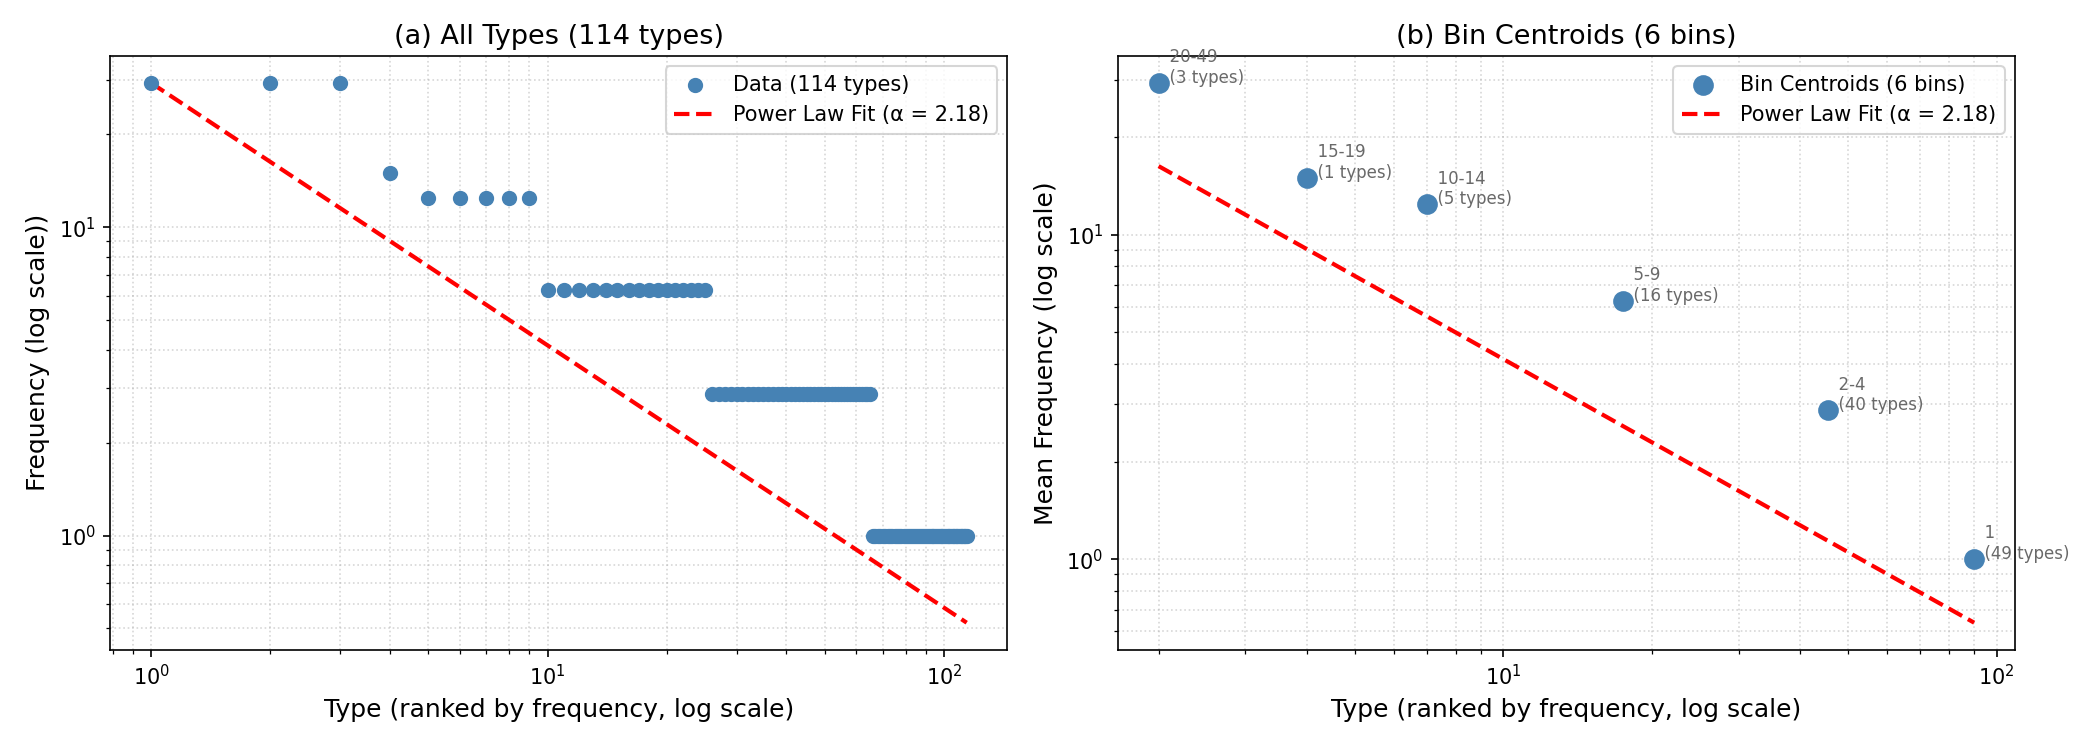
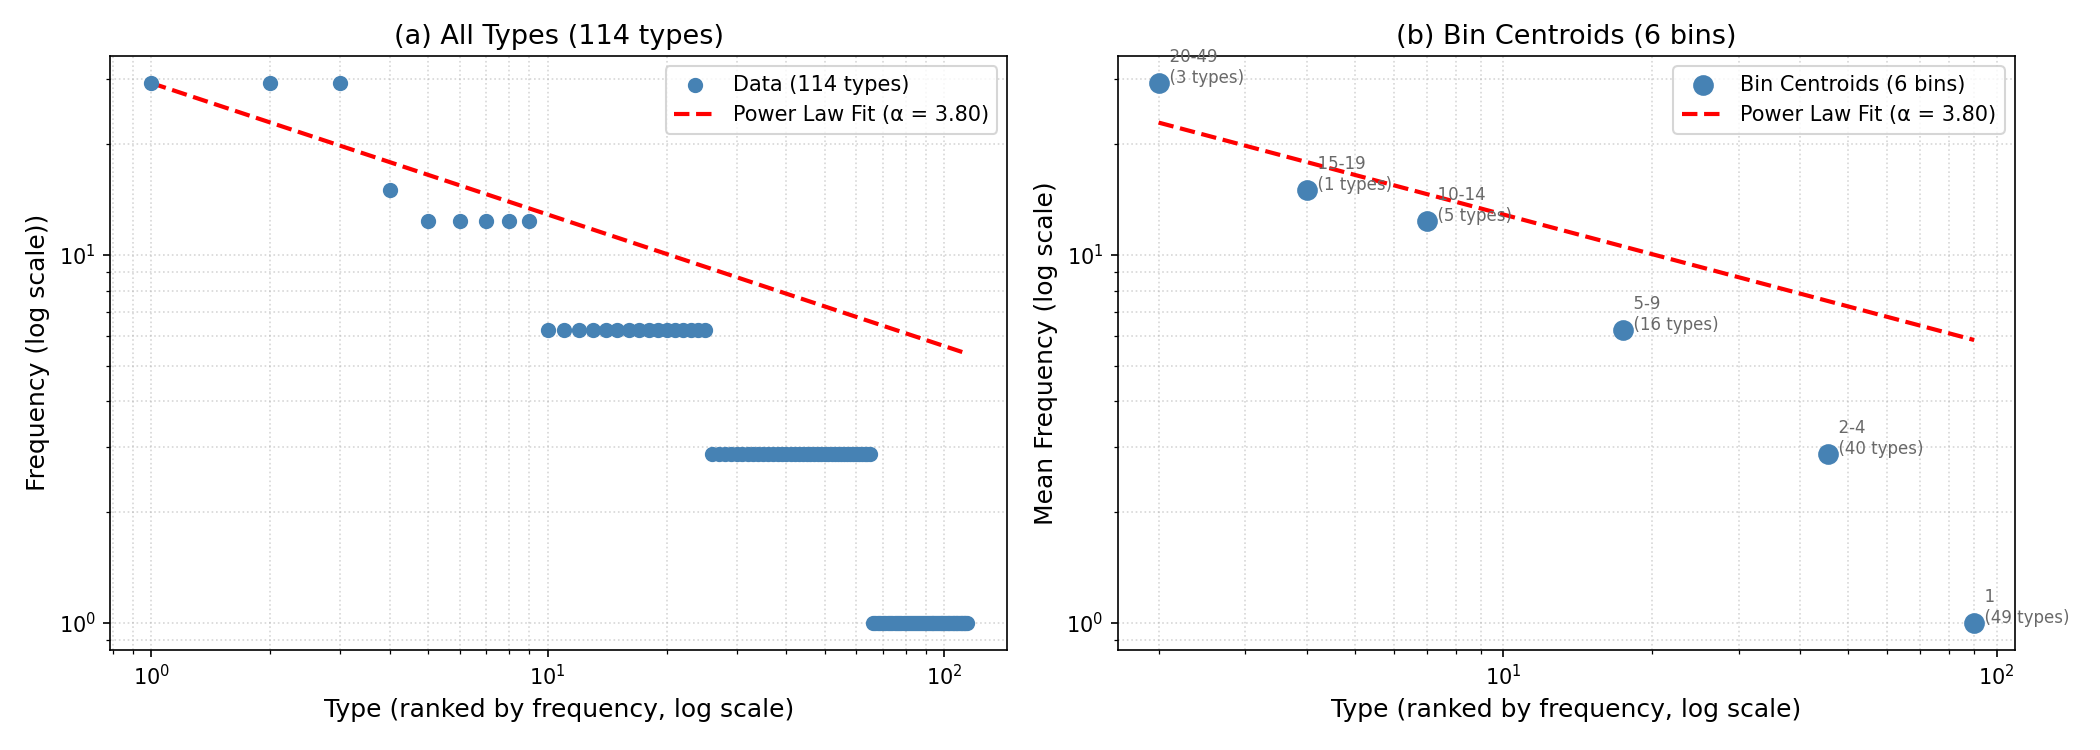
Regenerate figures and correct paper.tex with cleaned Appendix 7.1 dataset

diff --git a/paper.tex b/paper.tex
@@ -262,7 +262,7 @@ the published binned summary data (Table 7.6) by assigning each type the mean fr
 To assess the impact of binning, we also performed a constrained reconstruction (Section~4.1.1) that 
 randomly assigns per-type frequencies within each bin while preserving known constraints, yielding 
 substantially improved fit statistics. Second, we obtained exact per-type frequency counts from 
-Appendix 7.1 of \citet{jamison2017} (all 134 types, 500 seals) and performed a complete analysis, 
+Appendix 7.1 of \citet{jamison2017} and performed a complete analysis, 
 eliminating approximation entirely (Section~4.1.2). The two methodologies confirm power law structure 
 across different representations of the same underlying data.
 
@@ -366,7 +366,7 @@ size distribution is well described by a power law with $\alpha \approx 2.3$--$2
 \subsubsection{Complete Data Validation}
 
 To independently verify that power law structure exists in the actual per-type frequency data, 
-we analyzed the complete, unfiltered Appendix 7.1 dataset from \citet{jamison2017} (413 seals, 139 offering stand types, after excluding 82 entries with unidentified stands and 5 blank entries). 
+we analyzed the complete, unfiltered Appendix 7.1 dataset from \citet{jamison2017} (500 seals from Appendix 7.1, of which 413 had valid stands mapping to 139 unique offering stand types, after excluding 82 unidentified stands and 5 blank entries). 
 This dataset contains the raw frequency counts for each type, eliminating the need for binning 
 or reconstruction:
 